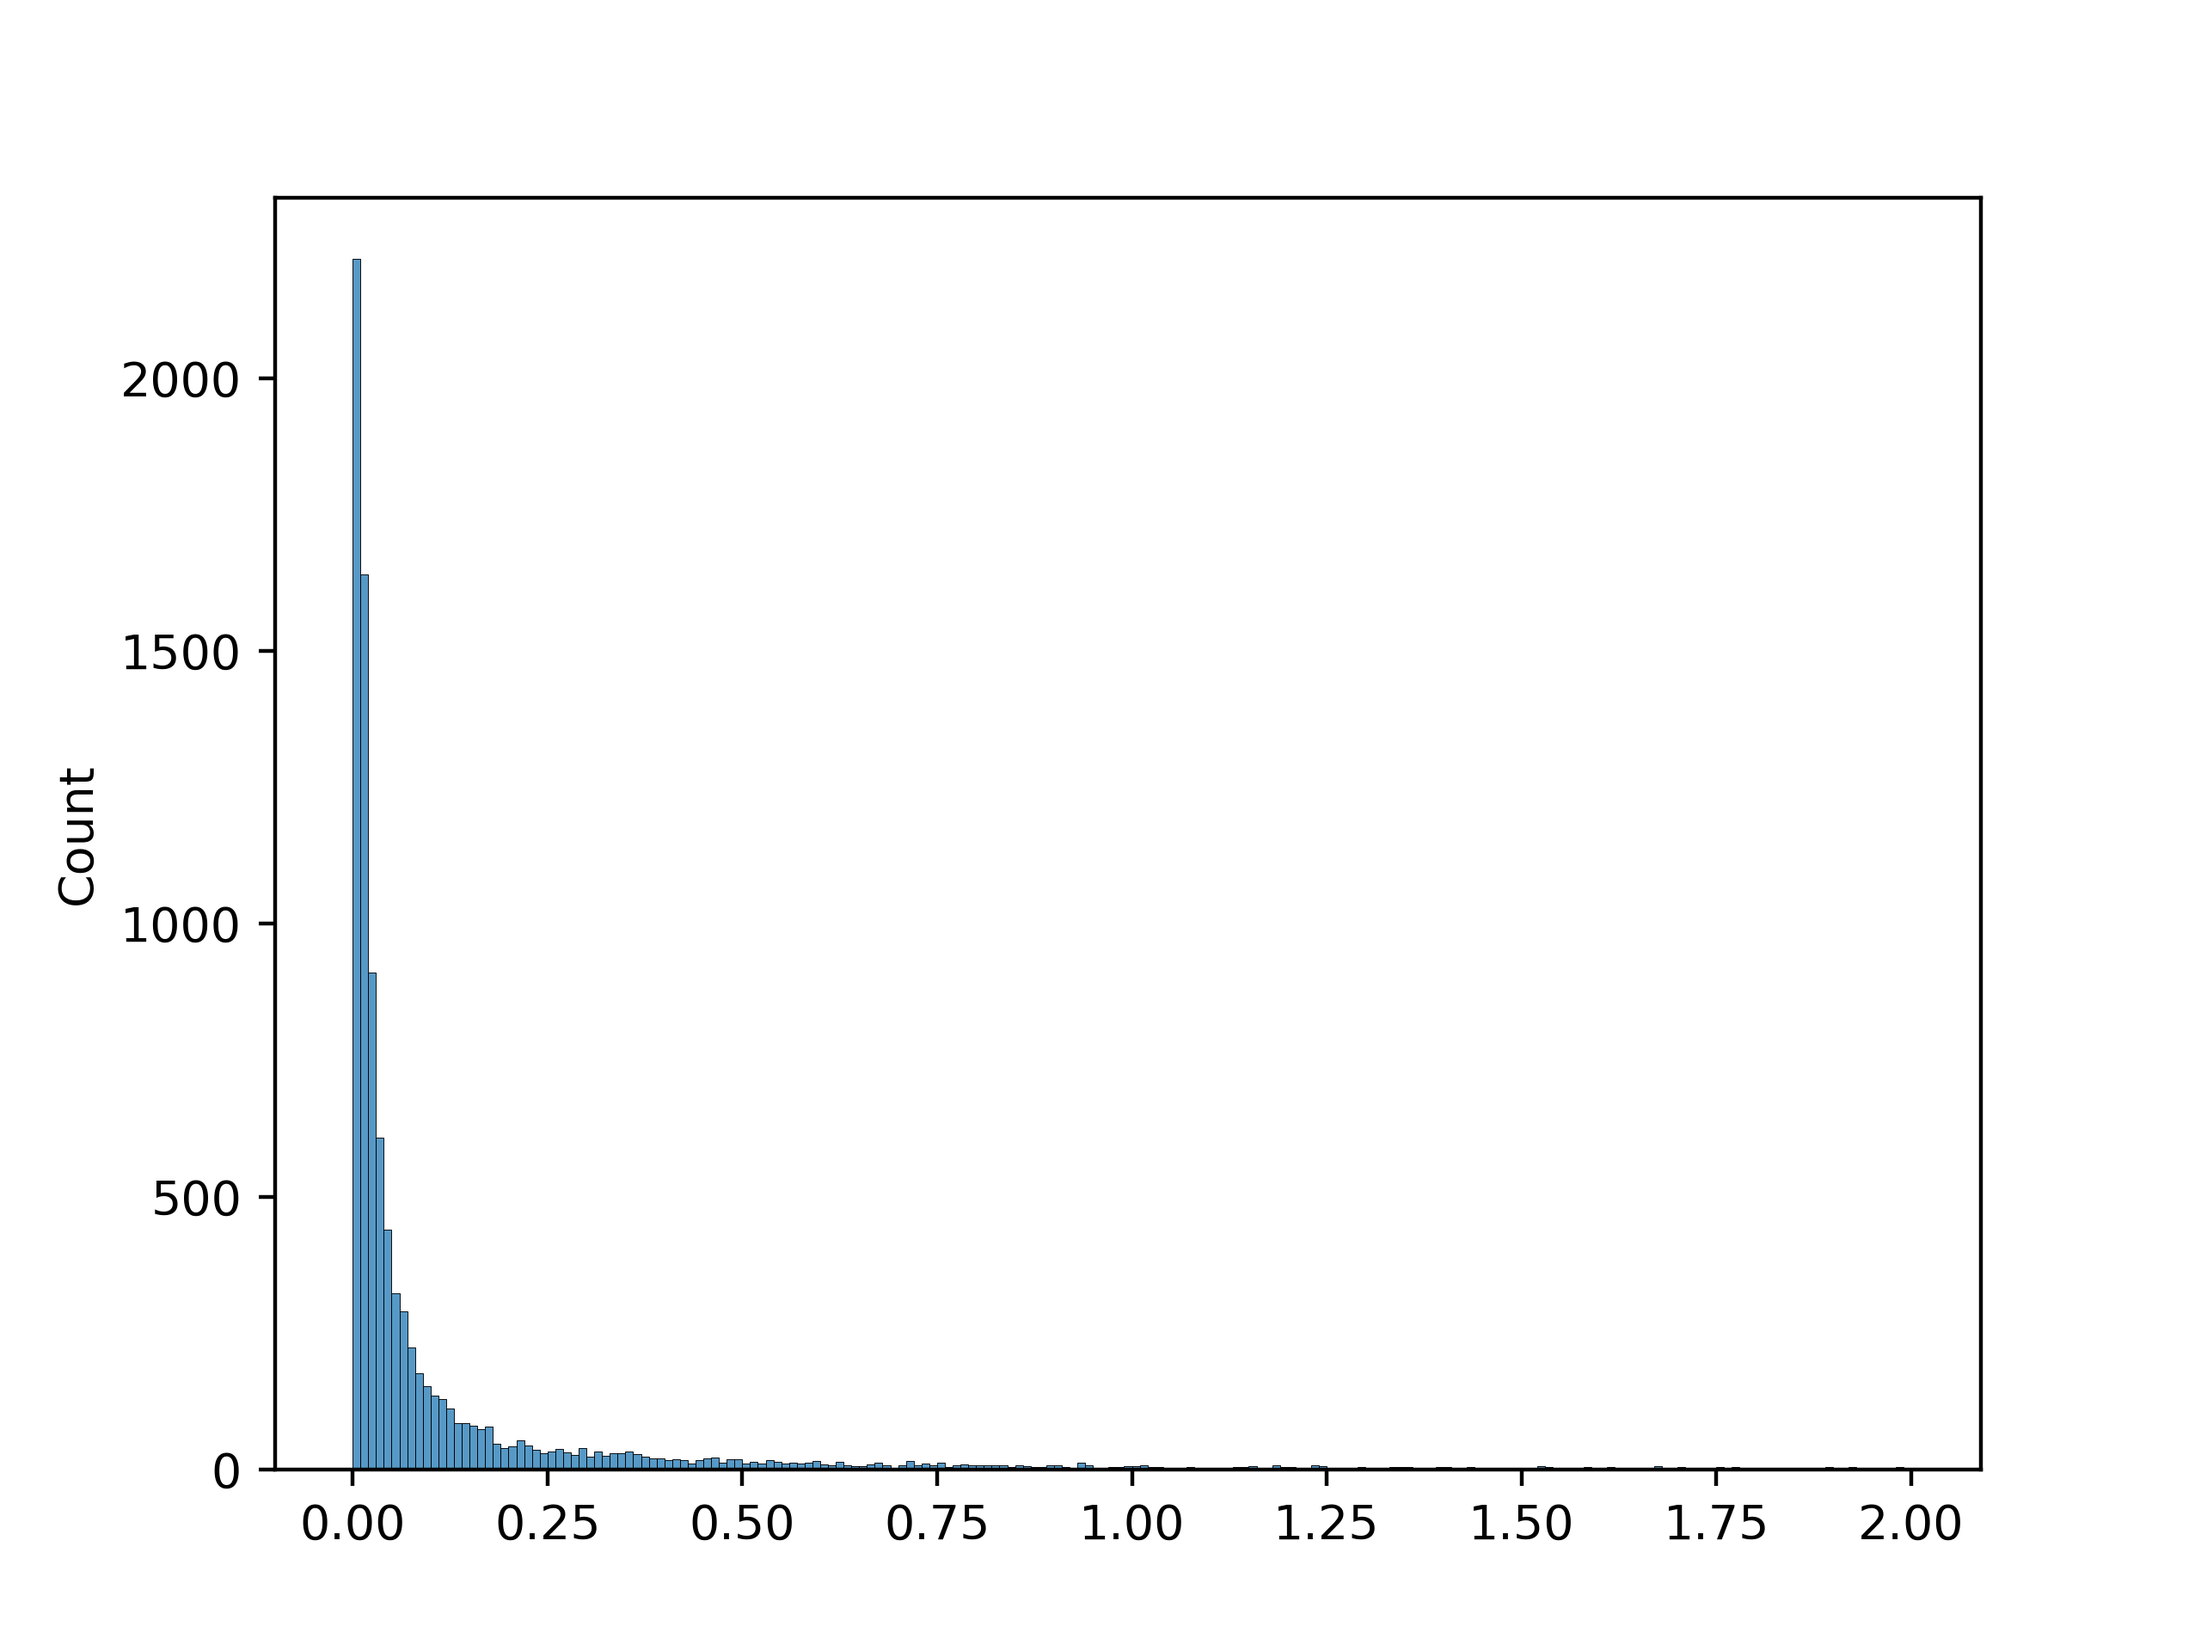
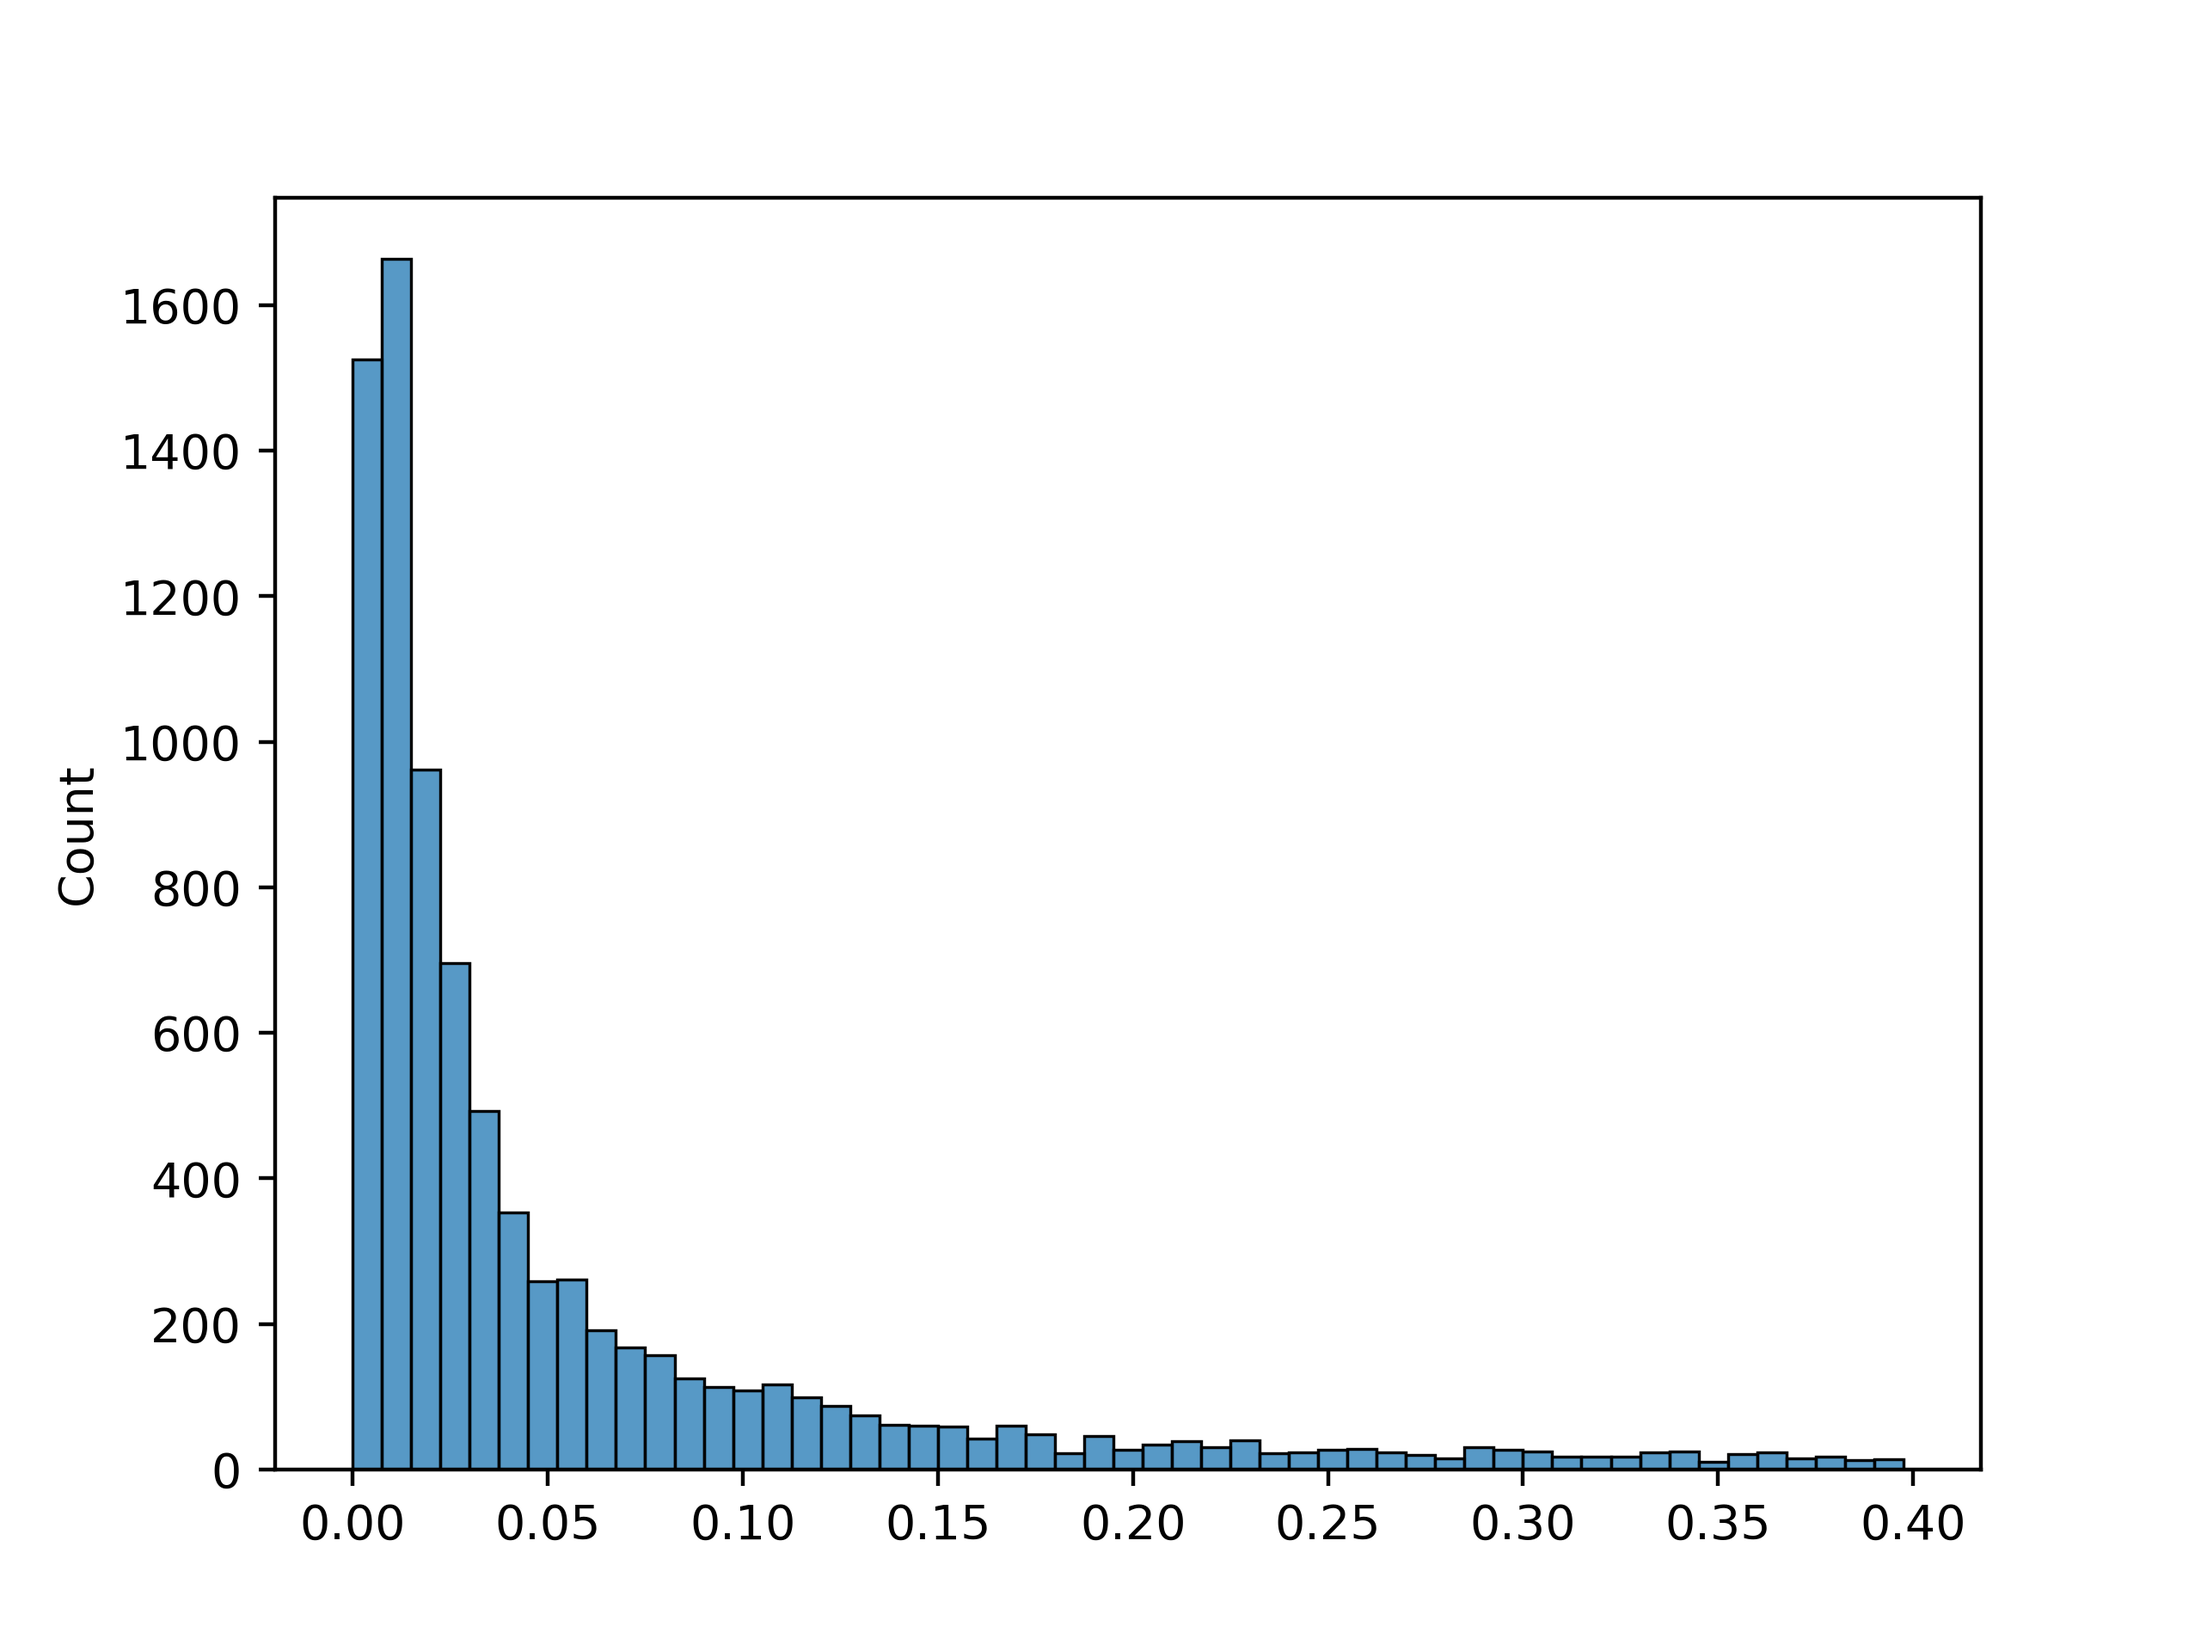
New levy distribution figures

diff --git a/Plugins/LegacyPlugins/LevyWalkLegacyPlugin.py b/Plugins/LegacyPlugins/LevyWalkLegacyPlugin.py
@@ -1,0 +1,316 @@
+import sys
+sys.path.append('../')
+
+import environment 
+from population import PopTemplate
+import util
+from scipy.stats import levy
+import random
+
+
+class LevyWalkLegacyPlugin(environment.TimeActionPlugin):
+
+    def __init__(self, env_graph):
+        '''levy_walk
+            Pushes population to nearby nodes into a requesting node.
+
+
+                Requirements:
+                    Nodes must have position values in their characteristic dictionaries.
+
+                Params:
+                    region: origin region.
+                    node: origin node.
+                    dist_location: optional levy distribution location parameter.
+                    dist_scale: optional levy distribution scale parameter.
+                    population_template: PopTemplate to be matched by the operation.
+
+                    isolation_rate: the quantity to reduce movements by. simulates social isolation.
+                
+                iso_mode: Can be:
+                    'regular'
+                        Normal plugin operation
+        '''
+        super().__init__()
+        
+        self.graph = env_graph
+        self.set_pair('levy_walk', self.levy_walk)
+
+        self.mobility_scale = 50
+
+        self.dist_dict = {}
+        self.dist_buckets = {}
+        self.bucket_size = 50
+        self.use_buckets  = True
+
+        self.distribution_sampler = levy
+        self.distribution_scale = 50
+        self.distribution_location = 30
+        
+        self.levy_probability = 0.05
+
+
+    def get_distances(self, node, graph):
+        if self.use_buckets:
+            if node.get_unique_name() in self.dist_buckets:
+                return self.dist_buckets[node.get_unique_name()]
+        else:
+            if node.get_unique_name() in self.dist_dict:
+                return self.dist_dict[node.get_unique_name()]
+
+        distance_list = []
+        node_pos = node.get_characteristic('world_position')
+        for n in graph.node_list:
+            if node.get_unique_name() == n.get_unique_name():
+                continue
+            node2_pos = n.get_characteristic('world_position')
+            distance_list += [(util.distance2D(node_pos, node2_pos), n.get_unique_name())]
+
+        distance_list = sorted(distance_list)
+
+        self.dist_dict[node.get_unique_name()] = distance_list
+
+        max_bucket = int(distance_list[-1][0] // self.bucket_size)
+        self.dist_buckets[node.get_unique_name()] = {}
+        for i in range(max_bucket+1):
+            self.dist_buckets[node.get_unique_name()][i] = []
+
+        for d in distance_list:
+            bucket = d[0] // self.bucket_size
+            self.dist_buckets[node.get_unique_name()][bucket] += [d]
+
+        if self.use_buckets:
+            return self.dist_buckets[node.get_unique_name()]
+        else:
+            return self.dist_dict[node.get_unique_name()]
+
+
+    def binary_search(self, _list, v):
+        l = 0
+        u = len(_list) - 1
+
+        while l < u and l != (u-1):
+            m = (l + u) // 2
+            v2 = _list[m][0]
+            if v2 > v:
+                u = m
+            else:
+                l = m
+
+        if l == 0:
+            l =  ( -1 if _list[0][0] > v else 0)
+        
+        return l
+
+
+    def bucket_search(self, _list, v):
+        bucket = v // self.bucket_size
+        if bucket not in _list:
+            return None
+        
+        l = _list[bucket]
+
+        if len(l) == 0:
+            return None
+
+        ix = random.randint(0, len(l)-1)
+
+        if l[0][0] > v:
+            return None
+
+        return l[ix]
+
+    def levy_sample(self, location = None, scale = None):
+        if location is not None and scale is not None:
+            self.distribution_sampler.rvs(loc=location,
+                                          scale= scale,
+                                          size = 1)
+        else:
+            return self.distribution_sampler.rvs(loc=self.distribution_location,
+                                                 scale= self.distribution_scale,
+                                                 size = 1)
+
+
+        ## returns everyone home
+    def levy_walk(self, values, hour, time):
+        region = values['region']
+        if isinstance(region, str):
+            region = self.graph.get_region_by_name(region)
+
+        node = values['node']
+        if isinstance(node, str):
+            node = region.get_node_by_name(node)
+
+
+        pop_template = values['population_template']
+
+        node_population = node.get_population_size(pop_template)
+
+        distances = self.get_distances(node, self.graph)
+
+        packets = node_population // self.mobility_scale
+
+        sub_list = []
+        for i in range(packets):
+            
+            if self.levy_probability < random.random():
+                continue
+            
+            if 'dist_location' in values and 'dist_scale' in values:
+                distance = self.levy_sample(location=float(values['dist_location']),
+                                            scale=float(values['dist_scale']))[0]
+            else:
+                distance = self.levy_sample()[0]
+
+            
+            # ix = -1
+            # for d in range(len(distances)):
+            #     if distance > distances[d][0]:
+            #         ix = d
+            #         break
+
+            if self.use_buckets:
+                selected = self.bucket_search(distances, distance)
+                if selected == None:
+                    continue
+                target_node_u_name = selected[1]
+            else:
+                ix = self.binary_search(distances, distance)
+                if ix == -1:
+                    continue
+                
+                target_node_u_name =  distances[ix][1]
+
+            target_region, target_node = target_node_u_name.split('//')
+            target_region = self.graph.get_region_by_name(target_region)
+            target_node = target_region.get_node_by_name(target_node)
+
+
+            new_action_values = {}
+            new_action_type = 'move_population'
+            
+            new_action_values['origin_region'] = region.name
+
+            new_action_values['origin_node'] = node.name
+            new_action_values['destination_region'] = target_region.name
+
+            new_action_values['destination_node'] = target_node.name
+            
+            new_action_values['quantity'] = self.mobility_scale
+            pop_template.mother_blob_id = target_region.id
+            new_action_values['population_template'] = pop_template
+
+            new_action = environment.TimeAction(action_type = new_action_type, values = new_action_values)
+            sub_list.append(new_action)
+                    
+        return sub_list
+
+
+    def get_node_distance_matrix(self):        
+        distance_matrix = {}
+        for k in self.dist_dict:
+            k_list = self.dist_dict[k]
+            distance_matrix[k] = {}
+            for i in k_list:
+                distance_matrix[k][i[1]] = i[0]
+
+        return distance_matrix
+
+    def get_region_distance_matrix(self):        
+        distance_matrix = {}
+
+        for r1 in self.graph.region_list:
+            distance_matrix[r1.name] = {}
+            for r2 in self.graph.region_list:
+                distance_matrix[r1.name][r2.name] = util.distance2D(r1.position, r2.position)
+
+        return distance_matrix
+
+
+if __name__ == "__main__":
+    import seaborn as sns
+    import matplotlib.pyplot as plt
+    import numpy as np
+
+    
+
+    dist = np.array(levy.rvs(loc=1, scale= 1, size = 10000))
+    bins = np.arange(0,10, 0.1)
+    s = sns.histplot(dist, bins=bins)
+    #figure = s.get_figure()
+    plt.savefig('l1-s1-levy.png', dpi=400)
+    print(f'scale 1, mean {sum(dist)/10000}')
+    plt.clf()
+
+    dist = np.array(levy.rvs(loc=50, scale= 50, size = 10000))
+    bins = np.arange(0,600, 1)
+    s = sns.histplot(dist, bins=bins)
+    #figure = s.get_figure()
+    plt.savefig('l50-s50-levy.png', dpi=400)
+    print(f'scale 50, mean {sum(dist)/10000}')
+    plt.clf()
+
+    dist = np.array(levy.rvs(loc=100, scale= 50, size = 10000))
+    bins = np.arange(0,600, 1)
+    s = sns.histplot(dist, bins=bins)
+   #figure = s.get_figure()
+    plt.savefig('l100-s50-levy.png', dpi=400)
+    print(f'scale 50, mean {sum(dist)/10000}')
+    plt.clf()
+
+    dist = np.array(levy.rvs(loc=50, scale= 100, size = 10000))
+    bins = np.arange(0,600, 1)
+    s = sns.histplot(dist, bins=bins)
+    #figure = s.get_figure()
+    plt.savefig('l50-s100-levy.png', dpi=400)
+    print(f'scale 100, mean {sum(dist)/10000}')
+    plt.clf()
+
+    dist = np.array(levy.rvs(loc=75, scale= 75, size = 10000))
+    bins = np.arange(0,600, 1)
+    s = sns.histplot(dist, bins=bins)
+    #figure = s.get_figure()
+    plt.savefig('l75-s75-levy.png', dpi=400)
+    print(f'scale 75, mean {sum(dist)/10000}')
+    plt.clf()
+
+    dist = np.array(levy.rvs(loc=400, scale= 100, size = 10000))
+    bins = np.arange(390,1000, 1)
+    s = sns.histplot(dist, bins=bins)
+    #figure = s.get_figure()
+    plt.savefig('l400-s100-levy.png', dpi=400)
+    print(f'scale 100, mean {sum(dist)/10000}')
+    plt.clf()
+
+    dist = np.array(levy.rvs(loc=0, scale= 600, size = 10000))
+    bins = np.arange(0,2500, 10)
+    s = sns.histplot(dist, bins=bins)
+    #figure = s.get_figure()
+    plt.savefig('l0-s600-levy.png', dpi=400)
+    print(f'scale 600, mean {sum(dist)/10000}')
+    plt.clf()
+
+    dist = np.array(levy.rvs(loc=0, scale= 100, size = 10000))
+    bins = np.arange(0,1200, 10)
+    s = sns.histplot(dist, bins=bins)
+    #figure = s.get_figure()
+    plt.ylim(0, 1000)
+    plt.savefig('l0-s100-levy.png', dpi=400)
+    print(f'scale 100, mean {sum(dist)/10000}')
+    plt.clf()
+
+    dist = np.array(levy.rvs(loc=0, scale= 200, size = 10000))
+    bins = np.arange(0,1200, 10)
+    s = sns.histplot(dist, bins=bins)
+    #figure = s.get_figure()
+    plt.savefig('l0-s200-levy.png', dpi=400)
+    print(f'scale 200, mean {sum(dist)/10000}')
+    plt.clf()
+
+    dist = np.array(levy.rvs(loc=0, scale= 50, size = 10000))
+    bins = np.arange(0,1200, 10)
+    s = sns.histplot(dist, bins=bins)
+    #figure = s.get_figure()
+    plt.ylim(0, 1000)
+    plt.savefig('l0-s50-levy.png', dpi=400)
+    print(f'scale 50, mean {sum(dist)/10000}')
